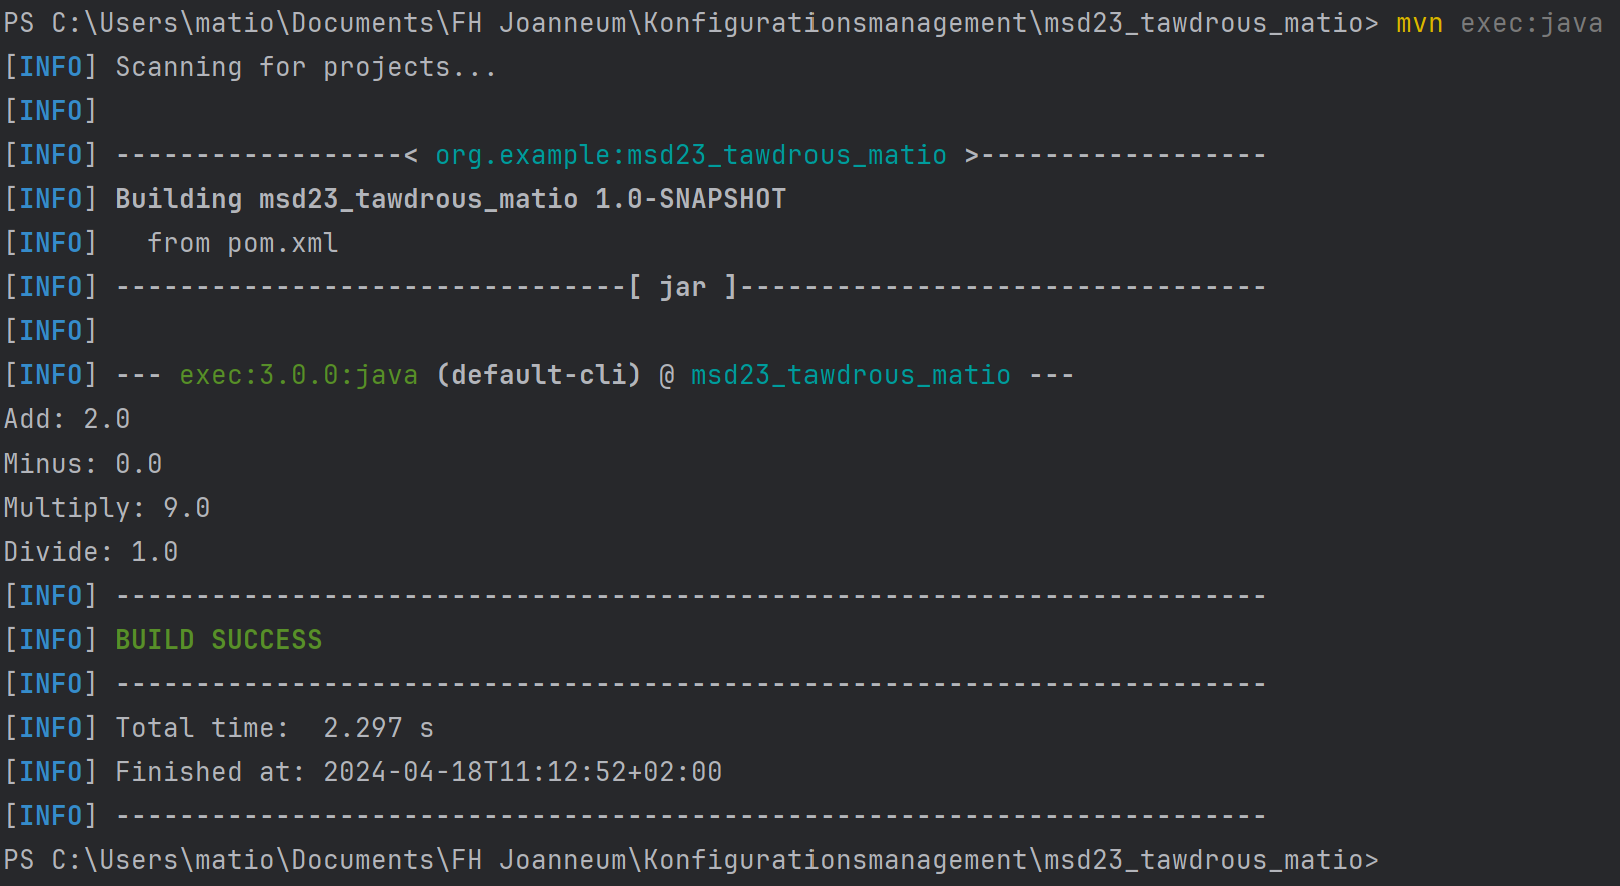
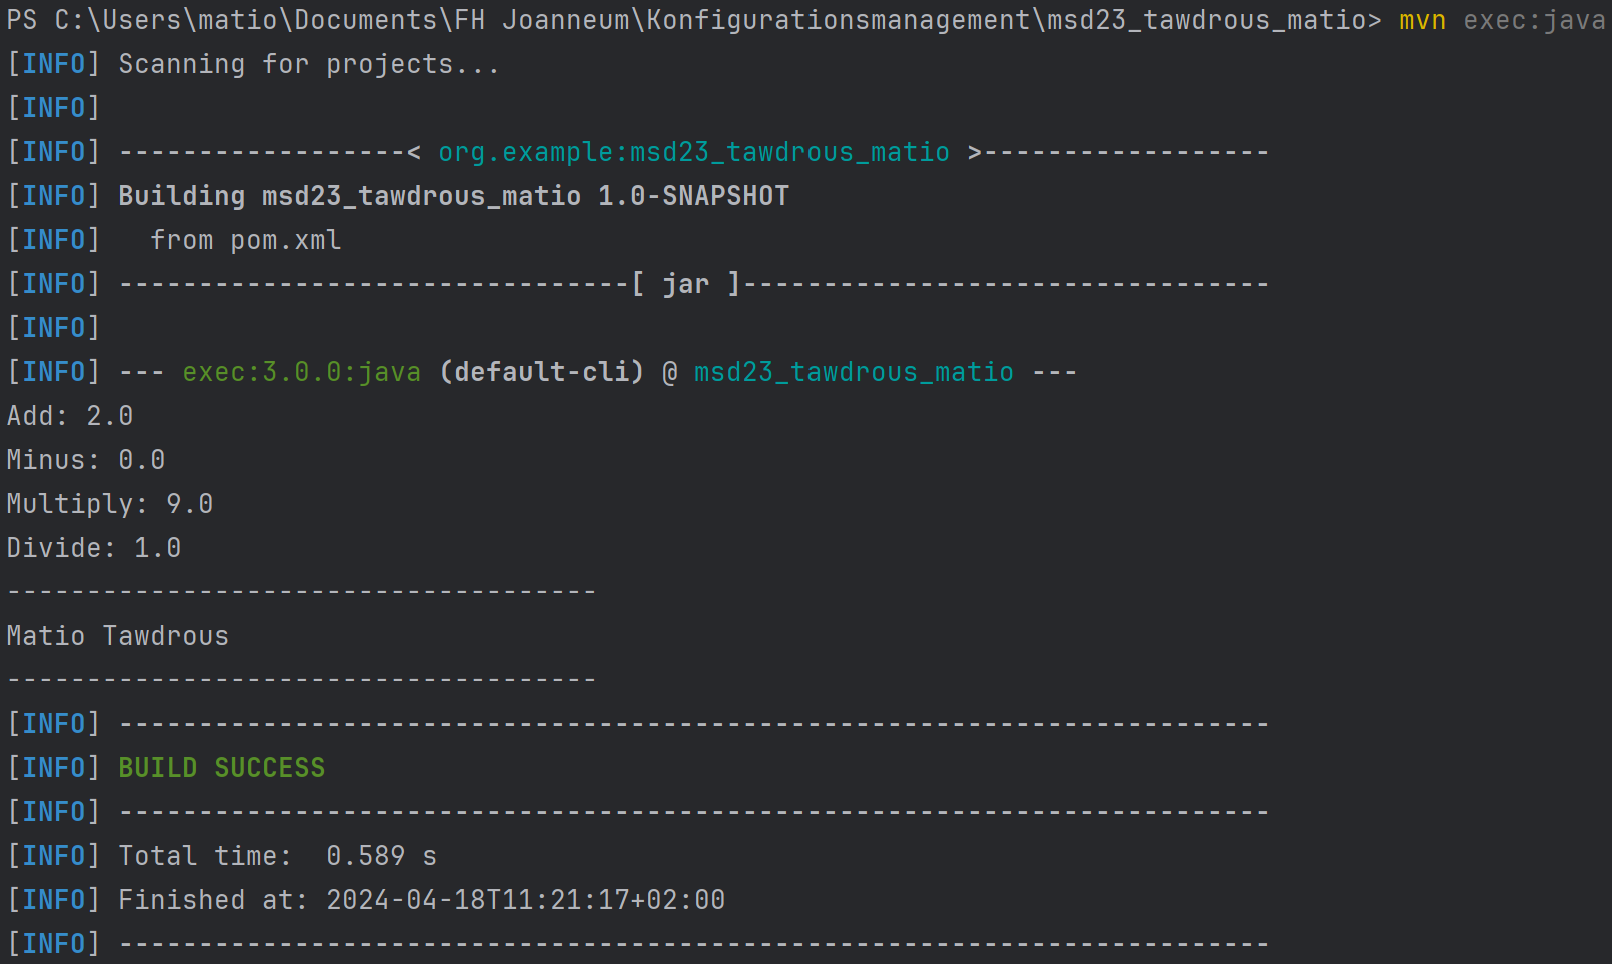
changed output of main class

diff --git a/src/main/java/Main.java b/src/main/java/Main.java
@@ -11,5 +11,9 @@ public class Main {
         System.out.println("Minus: " + c.minus(2,2));
         System.out.println("Multiply: " + c.multiply(3,3));
         System.out.println("Divide: " + c.divide(4,4));
+
+        System.out.println("-------------------------------------");
+        System.out.println("Matio Tawdrous");
+        System.out.println("-------------------------------------");
     }
 }

diff --git a/exercise3.md b/exercise3.md
@@ -24,7 +24,7 @@ ___
    </ul>
 2. Java Klasse <code>Main</code> erstellen und Methoden testen.
 3. Ausführen und den neuen Order <i>target</i> anschauen:
-   <img src="/resources/images/ex3_1.png" alt="screenshot of the target folder" style="width: 500px"/>
+   <img src="/resources/images/ex3_1.png" alt="screenshot of the target folder"/><br>
    In diesem Order sind zwei weitere Ordner: <i>classes</i> und <i>generated-sources</i>
    <br>
    In Classes sind die zwei Klassen <code>Calculator</code> und <code>Main</code> drinnen als .class file
@@ -36,11 +36,11 @@ ___
 
 1. In <code>pom.xml</code> den <code>maven.compiler</code> hinzufügen mit aktueller Version: 3.13.0 Release: 17
 2. Progamm builden über Konsole: <code>mvn compile</code>
-   <img src="/resources/images/ex3_2.png" alt="screenshot of the successful maven build">
+   <img src="/resources/images/ex3_2.png" alt="screenshot of the successful maven build"><br>
 3. Push to git
 ___
 ### 4. Maven Exec
 ___
 1. Neues plugin in pom.xml hinzufügen und in der \<mainClass>com.example.Main\</mainClass> zu Main ändern.
 2. <code>mvn exec:java</code> ausführen
-   <img src="/resources/images/ex3_3.png" alt="screenshot of the successful maven exec">
+   <img src="/resources/images/ex3_3.png" alt="screenshot of the successful maven exec"><br>
